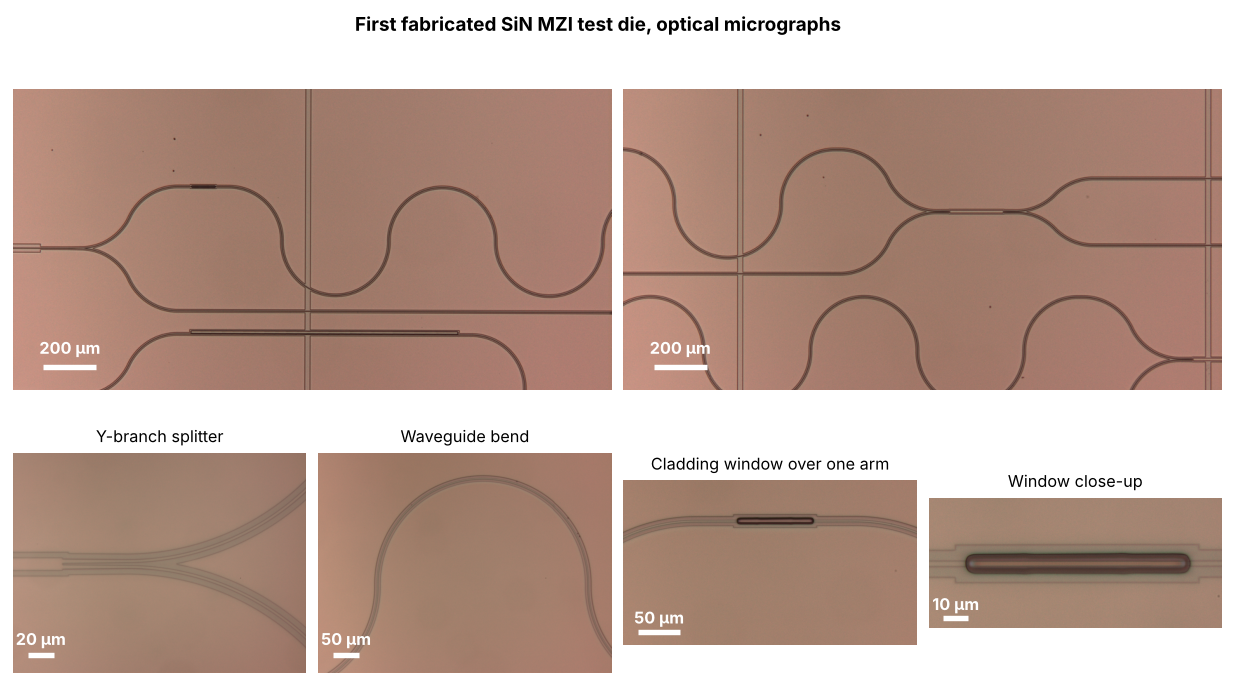
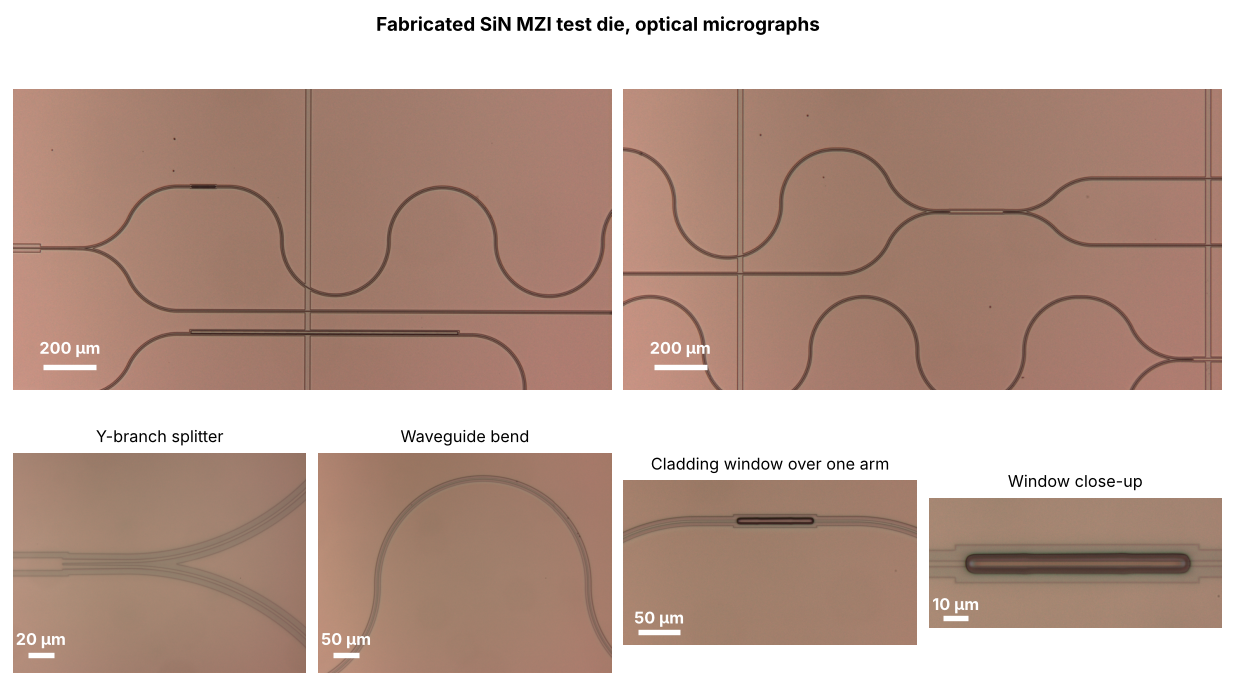
Remove dates from the README

Changed region(s): [[0.2769, 0.0, 0.6769, 0.0612]]

diff --git a/README.md b/README.md
@@ -4,15 +4,15 @@
 
 This design and fabrication study examines how a material-interaction window and imperfect optical components affect a 1550 nm Mach–Zehnder interferometer. The engineering goal is to connect modal overlap, loss and component balance with measurements that can distinguish the underlying causes.
 
-![Optical micrographs of the first fabricated SiN MZI test die](figures/fabricated.png)
+![Optical micrographs of the fabricated SiN MZI test die](figures/fabricated.png)
 
-*First fabricated test die (November 2026). MZIs with cladding windows for field-odd and field-even responses, after window etch and resist removal. Optical transmission measurements are next.*
+*Fabricated test die. MZIs with cladding windows for field-odd and field-even responses, after window etch and resist removal. Optical transmission measurements are next.*
 
 ![Stylus profiles and depth of the cladding windows on four dies](figures/window_depth.png)
 
 *Window depth measured by stylus profilometry on four dies. All nine scans fall within 2.00 to 2.05 µm (mean 2.02 µm), so the etch reached the same depth across the wafer.*
 
-**Stage:** first test chips fabricated (November 2026). Chip readout and complete fiber-array coupling remain to be validated.
+**Stage:** test chips fabricated. Chip readout and complete fiber-array coupling remain to be validated.
 
 ```mermaid
 flowchart LR
